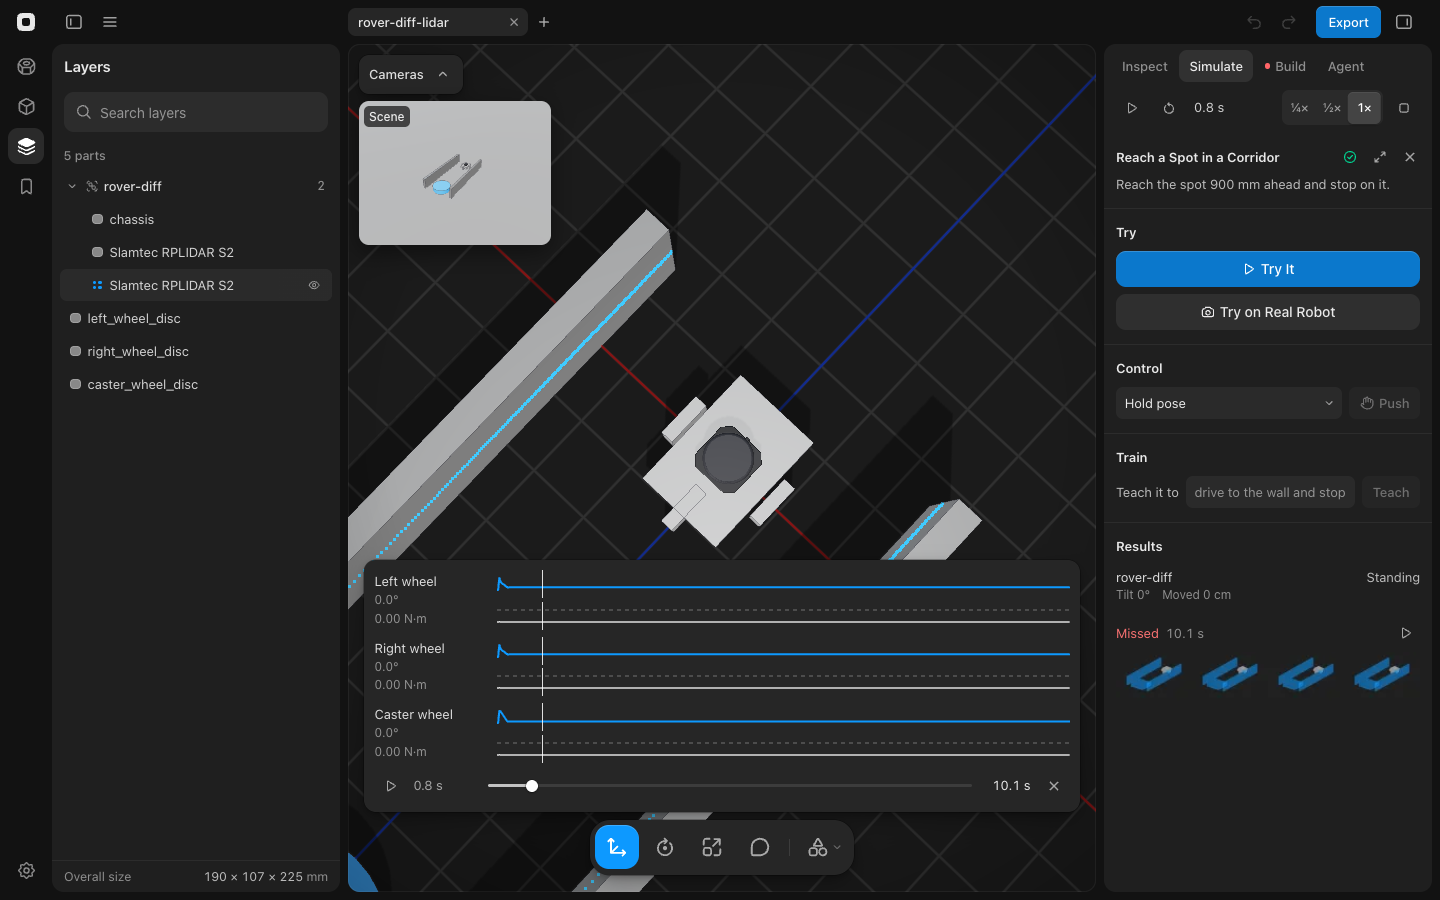
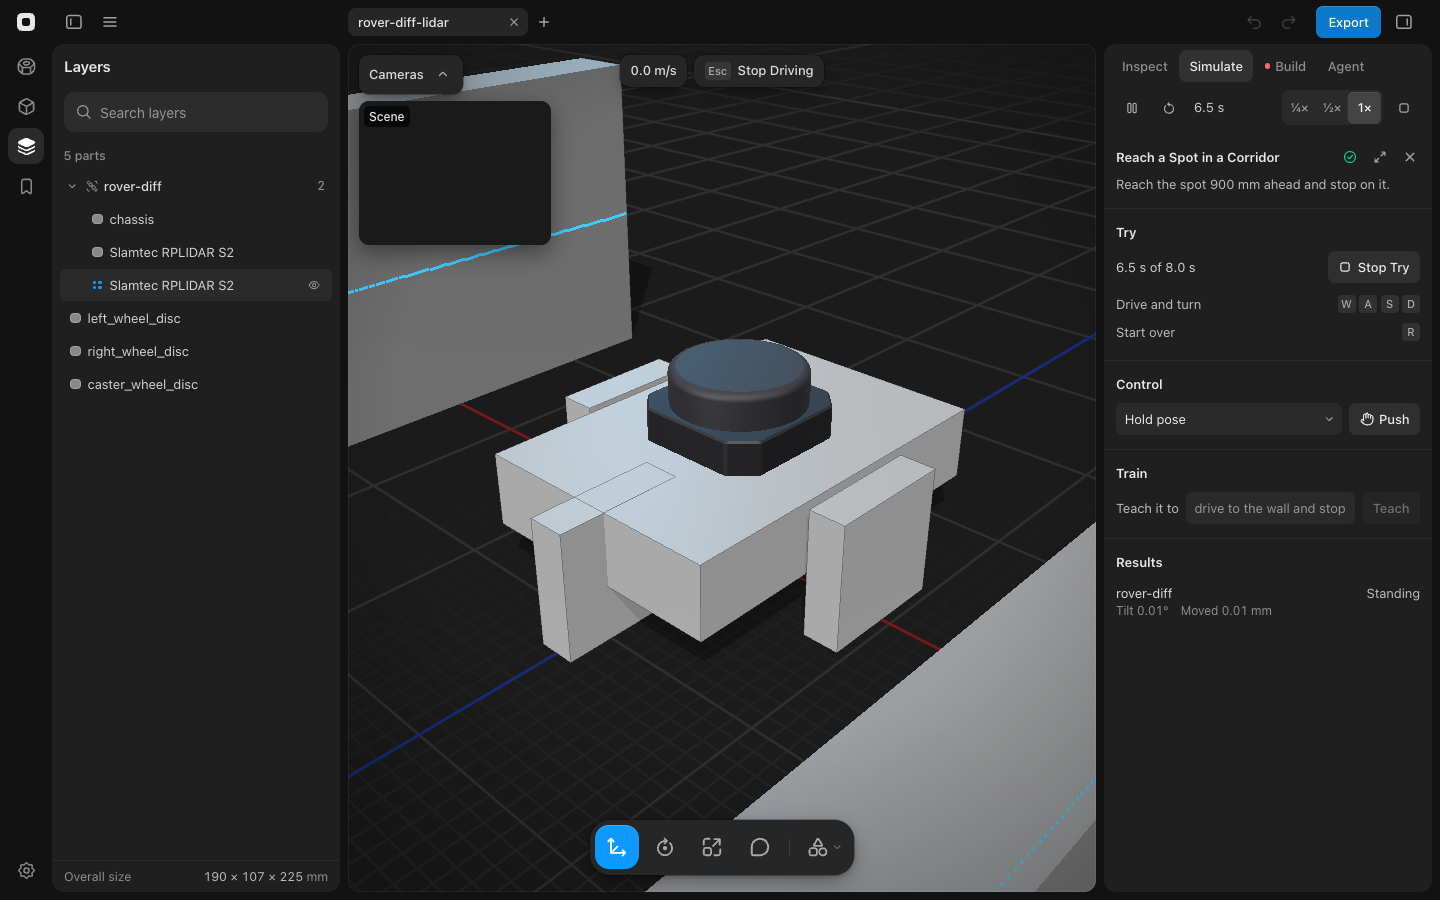
Rewrite the LiDAR replay article for Replay opening the Case running
Replay now opens a try's Case running, and clicking Layers leaves the
Case, which closes the timeline. "Replay a robot's LiDAR scan" told
people to open Layers mid-replay, which no longer works. The article now
says the Case opens running, and has people hide the scan in Layers
while a try runs in the Simulate tab, before the replay. It now covers
useCaseRun.ts and useTryTimeline.ts, and both screenshots are
recaptured. dataLayers.e2e followed the same old flow, so it now hides
and shows the scan during the live try, then replays it.

The performance guide now says why the try's signal read is time-sliced
on the main thread. The shortcut and Cases guides now say the ⇧-drag
loop works on a timeline lane, not on any plot.

diff --git a/e2e/dataLayers.e2e.test.ts b/e2e/dataLayers.e2e.test.ts
@@ -41,7 +41,7 @@ afterAll(async () => {
 
 describe('Data layers', () => {
   it.skipIf(process.platform === 'win32')(
-    'replays a rover’s LiDAR scan at the playhead and hides it from Layers',
+    'hides a rover’s LiDAR scan from Layers while it drives, and replays the scan at the playhead',
     async () => {
       const rover = fixtureRobots().find((r) => r.id === 'rover-diff')!;
 
@@ -58,6 +58,21 @@ describe('Data layers', () => {
       await button('Try It').click();
       await expect.poll(async () => (await simState()).drive, { timeout: 60000 }).toBe('on');
       await expect.poll(async () => (await simState()).scanPoints, { timeout: 30000 }).toBeGreaterThan(0);
+
+      const live = (await scanLayer())!;
+
+      await app.page.locator(shown('nav[aria-label="Sidebar views"] button[aria-label="Layers"]')).first().click();
+
+      const row = app.page.locator(shown(`[data-layer-row="data:${live.id}"]`)).first();
+
+      await row.hover();
+      await row.locator('button[aria-label="Hide"]').click();
+      await expect.poll(async () => (await scanLayer())?.visible).toBe(false);
+      await expect.poll(() => row.getAttribute('data-visible')).toBe('false');
+      expect((await simState()).scanPoints).toBe(0);
+      await row.locator('button[aria-label="Show"]').click();
+      await expect.poll(async () => (await scanLayer())?.visible).toBe(true);
+      await openPlayTab(app.page, 'Cases');
       await endTryAt(app.page, 0.4);
       await expect.poll(async () => (await simState()).tries.length, { timeout: 30000 }).toBe(1);
 
@@ -75,16 +90,6 @@ describe('Data layers', () => {
 
       expect(end.dataPlayhead).toBeGreaterThan(0);
       expect(layer.shownAt).toBeLessThanOrEqual(end.dataPlayhead!);
-
-      await app.page.locator(shown('nav[aria-label="Sidebar views"] button[aria-label="Layers"]')).first().click();
-
-      const row = app.page.locator(shown(`[data-layer-row="data:${layer.id}"]`)).first();
-
-      await row.hover();
-      await row.locator('button[aria-label="Hide"]').click();
-      await expect.poll(async () => (await scanLayer())?.visible).toBe(false);
-      expect((await simState()).scanPoints).toBe(0);
-      await expect.poll(() => row.getAttribute('data-visible')).toBe('false');
       expect(app.errors).toEqual([]);
     },
   );

diff --git a/docs/guide/cases.md b/docs/guide/cases.md
@@ -153,7 +153,7 @@ The canvas overlay (`DriveOverlay`) shows “Fell. Press R.”, speed in m/s for
 
 A try's clock starts at the newest frame's time when it begins (`sim.latestStats()`); the stats the panel shows lag up to 100 ms and, just after the Case's model loads, can still be the old run's, which ended a try seconds early. A try records at 50 Hz in the worker (`src/sim/recorder.ts`, hung on `SimEngine.stepHook`, the second step slot): time, actions, qpos, qvel, each actuator's force (`Recording.force`, what the console's `joint.*.effort` reads back), every body's pose (kinematics refreshed first, so poses match qpos) and, when the robot carries a LiDAR, its newest scan (`Recording.scan`, `scanWidth` values a frame, §8l). It ends when the Case's time runs out, on Stop Try, or when driving stops. `scoreTry` runs the Case's probes and contract over it; `tryManifest` stores the Case and model hashes, seed, frame count and step. Faults set during a try (§8d) go on the recording (`Recorder.fault`): joint, kind, start time from the try's start, and `until` once cleared; faults already on when it starts are logged at 0. It also records the drive commands it was given (`Recording.commands`: each `SimEngine.command` call, its `slot`, `v`, `target` and `aux`, at the sim time it came, through `SimEngine.commandHook`; the commands already in force when it starts are logged at 0) and the controller that drove it (`Recording.controller`, the worker's drive controller), so the try can be replayed. `tryManifest` keeps the faults as `faults`, and the command count as `commands`, and each try row in Results shows a badge per fault, whose tooltip names the joint and time. Recordings live in IndexedDB (`basecase-tries`, `src/cases/tryStore.ts`); `project.tries` holds only the records and `sharedScene` strips them from `.basecase` files, like policies.
 
-**The try timeline** (`useTryTimeline.ts`, `components/simulate/TryTimeline.tsx`): a try row's Replay opens it under the canvas, and opens the Case running, so its console plays the try too (§ Running a Case, Playing a try). It stops driving, loads the sim if it's off, and sends the recording to the worker (`Simulation.scrub`, §8d); a recording that doesn't fit the current model opens nothing. One lane per actuated joint (`timelineLanes`): the target (recorded ctrl, position joints only) in grey and the position (qpos through `jointQpos`) in the accent on one plot, and the effort (absolute actuator force) on a second with the servo's limit dashed, both in degrees or millimetres and N·m; the name column shows the values at the playhead. The Case contract's failed labels show as red markers at the frame each first tripped (`tripFrames`: `evaluateContract` on growing prefixes of the try's signals, bisected), and the timeline opens on the first of them, or at the start. Pressing on a lane selects its joint's link (`linkParts`, as Peak torque rows do) through `useCaseRun.pick`: the running Case's canvas, which outlines no selection otherwise and never attaches a gizmo (`useCaseRun`'s `canvas` props: `selectedPartIds` and `noGizmo`), outlines the picked link, and leaving the Case keeps it selected instead of putting back the selection from before the run; pressing or dragging on a plot seeks there. ⇧-dragging on a plot marks a range that playback loops (`TracePlot` `onLoop`, shaded; `playedFrame` wraps inside it), and ⇧-clicking clears it. The speed button beside the clock steps ¼×, ½×, 1×, 2× and 4× (`PLAYBACK_SPEEDS`, written by `speedLabel` as the Simulate tab's sim speed is). Keys while it's open (`useTimelineKeys`, capture phase, so the canvas and selection don't see them): ← → one frame, ⇧← ⇧→ one second, Home End, Space play and pause, `[` and `]` slower and faster, Esc closes. Closing resets the sim to where it was: off again, or reset and playing if it was. Deleting the open try or the sim stopping closes it. Tests: `src/sim/recordedFrames.test.ts` (recomputed peaks within 2% of the live Peak torque, through a measured servo's delay too; a seek sets the frame's qpos exactly), `src/cases/tripFrames.test.ts`, and `e2e/tryTimeline.e2e.test.ts`, which records an arm try, opens it from Replay, presses → and End, checks the worker's qpos against the last frame (`__studio.simState().timeline`), checks the Case opened running, presses on a lane and checks its link is selected and shown on the canvas with no gizmo attached, closes the timeline with Esc, then leaves the Case with a second Esc with the link still selected and the scene unchanged.
+**The try timeline** (`useTryTimeline.ts`, `components/simulate/TryTimeline.tsx`): a try row's Replay opens it under the canvas, and opens the Case running, so its console plays the try too (§ Running a Case, Playing a try). It stops driving, loads the sim if it's off, and sends the recording to the worker (`Simulation.scrub`, §8d); a recording that doesn't fit the current model opens nothing. One lane per actuated joint (`timelineLanes`): the target (recorded ctrl, position joints only) in grey and the position (qpos through `jointQpos`) in the accent on one plot, and the effort (absolute actuator force) on a second with the servo's limit dashed, both in degrees or millimetres and N·m; the name column shows the values at the playhead. The Case contract's failed labels show as red markers at the frame each first tripped (`tripFrames`: `evaluateContract` on growing prefixes of the try's signals, bisected), and the timeline opens on the first of them, or at the start. Pressing on a lane selects its joint's link (`linkParts`, as Peak torque rows do) through `useCaseRun.pick`: the running Case's canvas, which outlines no selection otherwise and never attaches a gizmo (`useCaseRun`'s `canvas` props: `selectedPartIds` and `noGizmo`), outlines the picked link, and leaving the Case keeps it selected instead of putting back the selection from before the run; pressing or dragging on a plot seeks there. ⇧-dragging on a lane's plot marks a range that playback loops (`TracePlot` `onLoop`, shaded; `playedFrame` wraps inside it), and ⇧-clicking clears it. The speed button beside the clock steps ¼×, ½×, 1×, 2× and 4× (`PLAYBACK_SPEEDS`, written by `speedLabel` as the Simulate tab's sim speed is). Keys while it's open (`useTimelineKeys`, capture phase, so the canvas and selection don't see them): ← → one frame, ⇧← ⇧→ one second, Home End, Space play and pause, `[` and `]` slower and faster, Esc closes. Closing resets the sim to where it was: off again, or reset and playing if it was. Deleting the open try or the sim stopping closes it. Tests: `src/sim/recordedFrames.test.ts` (recomputed peaks within 2% of the live Peak torque, through a measured servo's delay too; a seek sets the frame's qpos exactly), `src/cases/tripFrames.test.ts`, and `e2e/tryTimeline.e2e.test.ts`, which records an arm try, opens it from Replay, presses → and End, checks the worker's qpos against the last frame (`__studio.simState().timeline`), checks the Case opened running, presses on a lane and checks its link is selected and shown on the canvas with no gizmo attached, closes the timeline with Esc, then leaves the Case with a second Esc with the link still selected and the scene unchanged.
 
 The filmstrip (`src/cases/filmstrip.ts`, drawn by `filmstrip.worker.ts` on an `OffscreenCanvas`, through `filmstripClient.ts`) projects each part's box and the world's objects at four moments of a try, in the same three-quarter view as captures. The worker draws on a CPU-backed 2D canvas (`willReadFrequently`) and encodes the image type its caller asks for itself (WebP for a try, PNG for `run_case`); the main thread only gets the blob. `useFilmstrip` keeps one strip per try, model and boxes, so the Run Case tries panel and the Simulate tab's Results share a render. Encoding on the main thread (`convertToBlob` on a `bitmaprenderer` canvas) is a synchronous GPU readback. It waits behind every frame the GPU process has queued, and the live sim keeps the viewport and camera feeds rendering after a try. On CI's software GL that blocked the main thread for 0.2 to 7.5 s per strip, long enough that `caseRun.e2e.test.ts` read no try for 30 s and the next test couldn't click a tab. Results list tries worst first. `useFilmstrip` revokes a strip's blob URL only once a newer strip has replaced it on screen (or the row is gone): a re-rendered row that loads a revoked URL logs `net::ERR_FILE_NOT_FOUND`, which fails the Cases e2e.
 

diff --git a/docs/guide/performance.md b/docs/guide/performance.md
@@ -37,7 +37,7 @@ The app must feel instant. These rules came out of profiling real scenes (60+ CA
 - **A Case's code panels cost only what they draw** (§8h). The studio adds no render loop for them: a frame runs its own, out of the studio's renderer process. The bridge sends a frame only the signals it subscribed to, at most 20 times a second (a trailing timer, so the last value always arrives), never the whole bus, and the heartbeat is one small message every 500 ms.
 - **Small payloads across IPC and HTTP.** Lists are summaries (`SavedSceneSummary`: counts, size, a small WebP preview); full records load on demand (`platformBridge.getScene`). Library JSON is written compact. Never send a whole library over IPC. Saving, renaming, duplicating or deleting a Library model, a scene in the Scenes menu or a chat changes the list on screen at once, then writes that one record (`withModel`, `sceneStore`); the list is read again only when the write fails. A scene's writes run in order, and opening it waits for them (`queueSceneWrite`). The desktop models-folder watcher sends only the record that changed, and skips the app's own writes (`ModelChanges`).
 - **React Compiler friendliness** (§0c) is a performance rule: one rule break makes the compiler skip the whole component, and everything under it re-renders on every change. One that isn't a Rules of React break: the compiler can't lower `try` without `catch`, so a handler in a component that resets a flag after an awaited call chains `.finally(...)` instead (`agent/ConnectionBanner.tsx`).
-- **Playing a try through a console costs one frame per seek** (§8h). `recordedTrack` reads every signal of every frame once, when the try opens, and seeking only picks that frame's values. Paths are cached per values array (`tracePaths`, the extents and the drawn path, so the try timeline's lanes gain too), and the map keeps its whole path while a try plays (`mapFrame`). On a two-minute arm try (6,001 frames, 25 signals; M-series Mac, server-rendered), a seek with six panels (a value, two plots of 3 and 6 lines, the map, a signals table and the failures) takes 0.8 ms median, 3.1 ms at the 95th percentile and 4.3 ms at most; each plot took 5 to 7 ms before the cache. Opening the try reads its signals in 70 to 160 ms; the sim worker's effort pass (`Simulation.scrub`) takes about 0.4 s, and the goal is judged in the goal worker. Camera panels stay in the views worker: a seek sends the frame's poses there like any sim frame.
+- **Playing a try through a console costs one frame per seek** (§8h). `recordedTrack` reads every signal of every frame once, when the try opens, and seeking only picks that frame's values. Paths are cached per values array (`tracePaths`, the extents and the drawn path, so the try timeline's lanes gain too), and the map keeps its whole path while a try plays (`mapFrame`). On a two-minute arm try (6,001 frames, 25 signals; M-series Mac, server-rendered), a seek with six panels (a value, two plots of 3 and 6 lines, the map, a signals table and the failures) takes 0.8 ms median, 3.1 ms at the 95th percentile and 4.3 ms at most; each plot took 5 to 7 ms before the cache. Opening the try reads its signals in 70 to 160 ms, in 8 ms slices (`columnsOf`); it stays on the main thread because it runs the Case's probe reader and computed signals, closures built there from the live scene, and the slices keep every frame under 16 ms without delaying the read. The sim worker's effort pass (`Simulation.scrub`) takes about 0.4 s, and the goal is judged in the goal worker. Camera panels stay in the views worker: a seek sends the frame's poses there like any sim frame.
 - **Boot never waits on anything it doesn't need to draw.** The window opens before the agent connects (`connectAcpAgent` runs in parallel; it used to delay the window 0.7–2 s, and status reads `connecting` meanwhile, so nothing says “disconnected”). Anything that needs a session awaits that first connect (`AcpAgent.pending`) instead of starting a second. Only the active tab mounts at first; background tabs mount one per idle callback after its first frame (`useMountedTabs`), since each builds its own WebGL context, environment map and shaders (about 60–250 ms apiece). Events for a tab that hasn't mounted are dropped, not refused: on mount it adopts its runs from the journal and the bridge replays unanswered requests. Measure boot with real scenes reopened (`open-scenes` in `localStorage`), not an empty one.
 - **The CAD kernel never touches the renderer or boot.** Its sandbox windows open in the main process on the first compile (or 2 s after an MCP server starts), never during boot, and paint nothing (`show: false`, `paintWhenInitiallyHidden: false`, no WebGL); results pass through the main process as bytes it doesn't parse. A first compile costs about 0.15 s more than the old forked process (opening the window); later ones match it (guide examples: OpenSCAD 0.06–2.1 s, replicad 0.06–0.25 s, either host).
 - **Measure in production:** `npm run build && npm run preview`, then time interactions with a `PerformanceObserver` for `longtask` entries. Dev mode adds 30–130 ms per interaction and misleads.

diff --git a/site/content/help/replay-a-robots-lidar-scan.md b/site/content/help/replay-a-robots-lidar-scan.md
@@ -1,6 +1,7 @@
 ---
 title: Replay a robot's LiDAR scan
 date: 2026-11-13
+updated: 2026-11-13
 collection: simulate-and-train
 type: task
 keywords:
@@ -16,20 +17,23 @@ covers:
   - src/workspace/useDataLayers.ts
   - src/dataLayers/simTracks.ts
   - src/components/layers/DataLayerItem.tsx
+  - src/workspace/useCaseRun.ts
+  - src/workspace/useTryTimeline.ts
 ---
 
 See what the robot's LiDAR saw at any moment of a recorded try, drawn on the canvas from where the robot stood then.
 
 1. Put a LiDAR on the robot and group it with the body, as in [Simulate a LiDAR](/help/simulate-a-lidar).
 2. Record a try in a Case, as in [Try a Case](/help/try-a-case).
-3. In **Results**, click **Replay** (▷) on the try's row. The timeline opens under the canvas.
+3. In **Results**, click **Replay** (▷) on the try's row. The Case opens running, with the timeline under the canvas.
 4. Press [[→]] or [[←]] to move the playhead, or [[End]] to go to the end. The canvas draws the scan the LiDAR recorded at or before that moment, placed from the robot's pose then.
 
-![A rover with an RPLIDAR S2 in a corridor Case, the scan at the playhead drawn as blue points along both walls, the timeline under the canvas](/help/replay-a-robots-lidar-scan/replay.png)
+![Reach a Spot in a Corridor running a rover's try, its RPLIDAR S2 scan at the playhead drawn as blue points along both walls, the timeline under the canvas](/help/replay-a-robots-lidar-scan/replay.png)
 
-5. In the view rail, click **Layers**. The scan has its own row under the robot, named after the LiDAR and marked with four blue dots.
-6. Point at the scan's row and click **Hide**. The canvas stops drawing its points until you click **Show**.
+Click **Done** or press [[Esc]] to go back to the live robot.
+
+To stop drawing the scan, hide it in **Layers** while a try runs in the Simulate tab. The scan has its own row under the robot, named after the LiDAR and marked with four blue dots. Point at it and click **Hide**.
 
 ![The Layers view with the Slamtec RPLIDAR S2 scan row under the rover, its Hide button showing](/help/replay-a-robots-lidar-scan/layers.png)
 
-The scan's row shows only while the simulation is loaded. Hiding it holds for live runs and replays alike.
+Clicking **Layers** leaves a running Case, so hide the scan before you replay. It stays hidden in live runs and replays until you click **Show**.

diff --git a/docs/guide/menus-and-shortcuts.md b/docs/guide/menus-and-shortcuts.md
@@ -30,7 +30,7 @@ Part of the Basecase guide. [AGENTS.md](../../AGENTS.md) holds the rules every c
   - Build Along (§8b): ← / → previous and next step, Esc closes; the workspace's other keys are off while it's open.
   - Sketch plane (while it has focus, §8): typing a number with a shape started opens its length (a line, then Tab for the angle), width (a rectangle, then Tab for the height) or diameter (a circle); Enter places it, Esc closes the fields, then cancels the shape, then clears the selection, then drops the tool, then leaves Sketch if nothing is drawn. With one segment selected, typing a number or Enter edits its dimension. ⌫ deletes the selection. ⌘Z / ⇧⌘Z undo and redo sketch edits; the plane owns its edits through `data-own-edits` like the Routines view, and a reopened sketch's undo is the scene's.
   - Routines view (while it has focus, §8j): ⌘Z / ⇧⌘Z undo and redo Routine edits (the view owns its edits through `data-own-edits`, so the scene's history is untouched), ⌫ deletes the selected step, Esc clears the selection, ↑ ↓ Home End move through the step menu. ⌘↩ runs the open Routine whenever the Routines view is open.
-  - Try timeline (while it's open, §8h): ← → one frame, ⇧← ⇧→ one second, Home End, Space play and pause, `[` and `]` slower and faster (0.25× to 4×), ⇧-drag on a plot to loop a range, Esc closes it (and keeps the selection); in a running Case, Esc and Done go back to live.
+  - Try timeline (while it's open, §8h): ← → one frame, ⇧← ⇧→ one second, Home End, Space play and pause, `[` and `]` slower and faster (0.25× to 4×), ⇧-drag on a lane to loop a range, Esc closes it (and keeps the selection); in a running Case, Esc and Done go back to live.
   - A real try's paths (after its Replay, §8h): Esc clears them; the key still does whatever else Esc does there.
   - App: ⌘F Find Parts, ⌘P Print (Print mode), ⌘, Settings, ⌘B / ⌘I panels, ? Settings → Shortcuts (§6a).
   - Scenes: ⌘T new, ⌘W close, ⇧⌘T reopen, ⌃Tab / ⇧⌘] next, ⌃⇧Tab / ⇧⌘[ previous, ⌘1–⌘9 (§5a).
